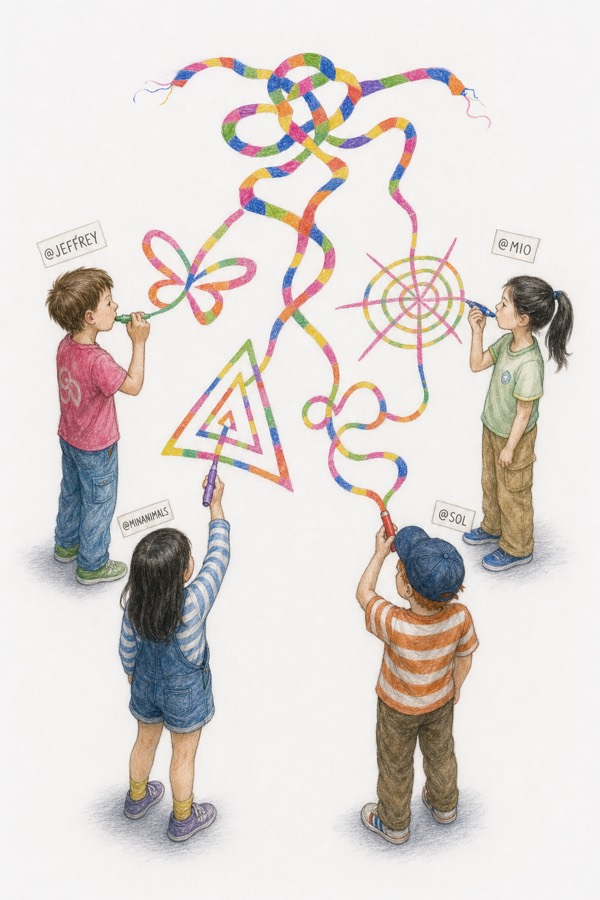
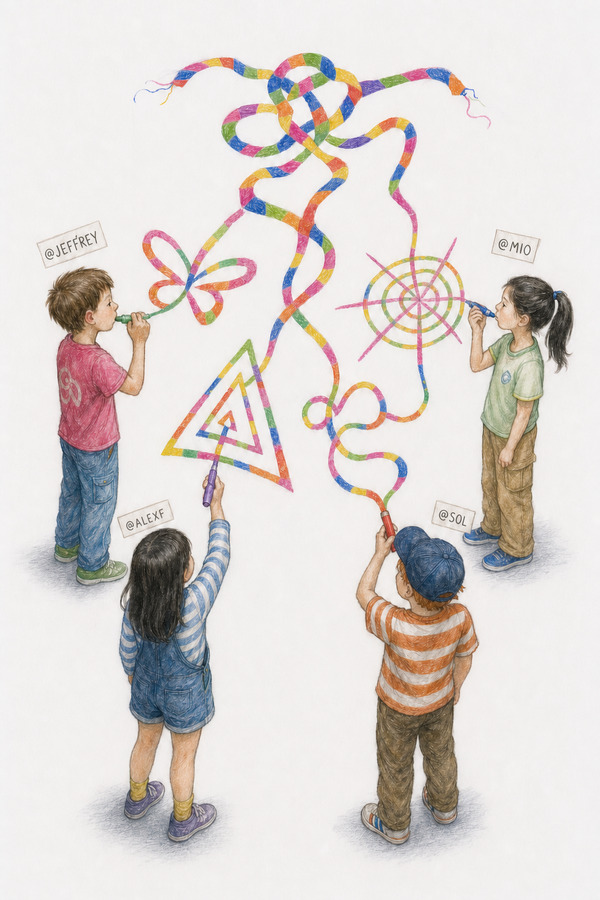
whistlegraph.org: re-letter @minanimals → @alexf across generated art + Desk copy
Alex renamed his AC handle; the old one was hand-lettered into three
future/ illustrations. Re-edited via illy gpt-image-2 using each gen as
its own reference; prompts, brand brief, and Desk display text updated.
Auth is by immutable Auth0 subject, so the allowlist is untouched.

diff --git a/system/public/whistlegraph.org/admin.html b/system/public/whistlegraph.org/admin.html
@@ -47,7 +47,7 @@
   <section id="gate">
     <div class="gate-card">
       <h1 class="mark">Whistlegraph <b>Desk</b></h1>
-      <div class="lede"><b>A working index of the artform.</b><br>Sign in with Aesthetic Computer. Editing is limited to @jeffrey and @minanimals.</div>
+      <div class="lede"><b>A working index of the artform.</b><br>Sign in with Aesthetic Computer. Editing is limited to @jeffrey and @alexf.</div>
       <button class="primary" id="login" data-testid="login">Sign in with Aesthetic Computer</button>
       <p id="gateStatus">Checking your session…</p>
       <div id="gateError" class="error"></div>
@@ -206,7 +206,7 @@
       <section class="codex-step"><h3>1 · Install the plugin</h3><p>Add the Aesthetic Computer Git marketplace, then install Whistlegraph Desk.</p><div class="command">${esc(install)}<button class="copy" data-copy="install">Copy</button></div></section>
       <section class="codex-step"><h3>2 · Open the knot checkout</h3><p>The plugin edits a clean temporary worktree. Your normal checkout can contain other work without being touched.</p><div class="command">${esc(checkout)}<button class="copy" data-copy="checkout">Copy</button></div></section>
       <section class="codex-step"><h3>3 · Ask Codex</h3><div class="command">Find the copy I want to change on whistlegraph.org, show me the diff, then validate and publish it.<button class="copy" data-copy="prompt">Copy</button></div></section>
-      <section class="codex-step guardrails">Only the immutable Auth0 subjects for @jeffrey and @minanimals pass the server check. The plugin can write only <code>system/public/whistlegraph.org/**</code>. Publishing creates a review branch and attributed commit, refuses a moved <code>main</code>, and deploys only the exact pushed SHA.</section>
+      <section class="codex-step guardrails">Only the immutable Auth0 subjects for @jeffrey and @alexf pass the server check. The plugin can write only <code>system/public/whistlegraph.org/**</code>. Publishing creates a review branch and attributed commit, refuses a moved <code>main</code>, and deploys only the exact pushed SHA.</section>
       <section class="codex-step"><h3>Recent deployments</h3><ul class="deploy-list">${recent}</ul></section>
       <p><a href="https://github.com/whistlegraph/aesthetic-computer/tree/main/plugins/whistlegraph" target="_blank" rel="noopener">Inspect the plugin source ↗</a></p>`;
     codexPanel.querySelector(".close").addEventListener("click",closeCodex);

diff --git a/marketing/campaigns/whistlegraph-future/brand-brief.md b/marketing/campaigns/whistlegraph-future/brand-brief.md
@@ -62,7 +62,8 @@ next to the arXiv cover without a seam.
 ## Handles
 
 The one lettering exception: small hand-lettered handle tags floating beside
-each figure's head. `@jeffrey` and `@minanimals` are the two real handles
+each figure's head. `@jeffrey` and `@alexf` (formerly `@minanimals`,
+renamed 2026-08-13) are the two real handles
 (the Whistlegraph Desk pair, per `system/public/whistlegraph.org/NOTES.md`).
 Community figures get neutral invented handles — do **not** guess handles for
 Camille Klein or Adelaide Dalio; if their real ones are wanted, get them from
@@ -85,4 +86,4 @@ Alex first.
 - Panel 5 uses `portraits/jeffrey/ig-archive/whistlegraph/` for identity
   grounding. Confirm which archive frames are cleared for a public page.
 - Do the trio's real handles go in panel 1, or stay at `@jeffrey` +
-  `@minanimals` + two neutrals?
+  `@alexf` + two neutrals?

diff --git a/system/public/whistlegraph.org/NOTES.md b/system/public/whistlegraph.org/NOTES.md
@@ -7,7 +7,8 @@ Data edits + copy/loop changes from that thread are already applied to `graphs.j
 
 `/desk` is the private Whistlegraph Desk. It uses the existing Aesthetic Computer
 Auth0 application and authorizes the immutable Auth0 subjects for @jeffrey and
-@minanimals on the server; matching a display handle is never enough. Live edits
+@alexf (formerly @minanimals, renamed 2026-08-13) on the server; matching a
+display handle is never enough. Live edits
 are stored as a MongoDB curation overlay and applied on top of the generated
 `graphs.json` / `posts.json`, so the scraper remains reproducible and an edit can
 be restored to generated data at any time.

diff --git a/toolchain/whistlegraph/ALEX-BACKLOG.md b/toolchain/whistlegraph/ALEX-BACKLOG.md
@@ -6,6 +6,12 @@ Reel suggestions live separately in [`REELS-BACKLOG.md`](REELS-BACKLOG.md).
 
 Status: `received` → `verified` → `applied` → `live`
 
+## Received August 13, 2026
+
+| Status | Request |
+|---|---|
+| applied | Alex renamed his AC handle @minanimals → @alexf; update the hand-lettered handle tags in the generated `future/` illustrations (choir-in-the-round, passing-the-marker, workshop-in-the-round) to @ALEXF. Re-edited via illy gpt-image-2; site JPGs updated; Desk copy + brand brief + prompts updated. Not yet deployed to lith. |
+
 ## Received August 10, 2026
 
 | Status | Request |
